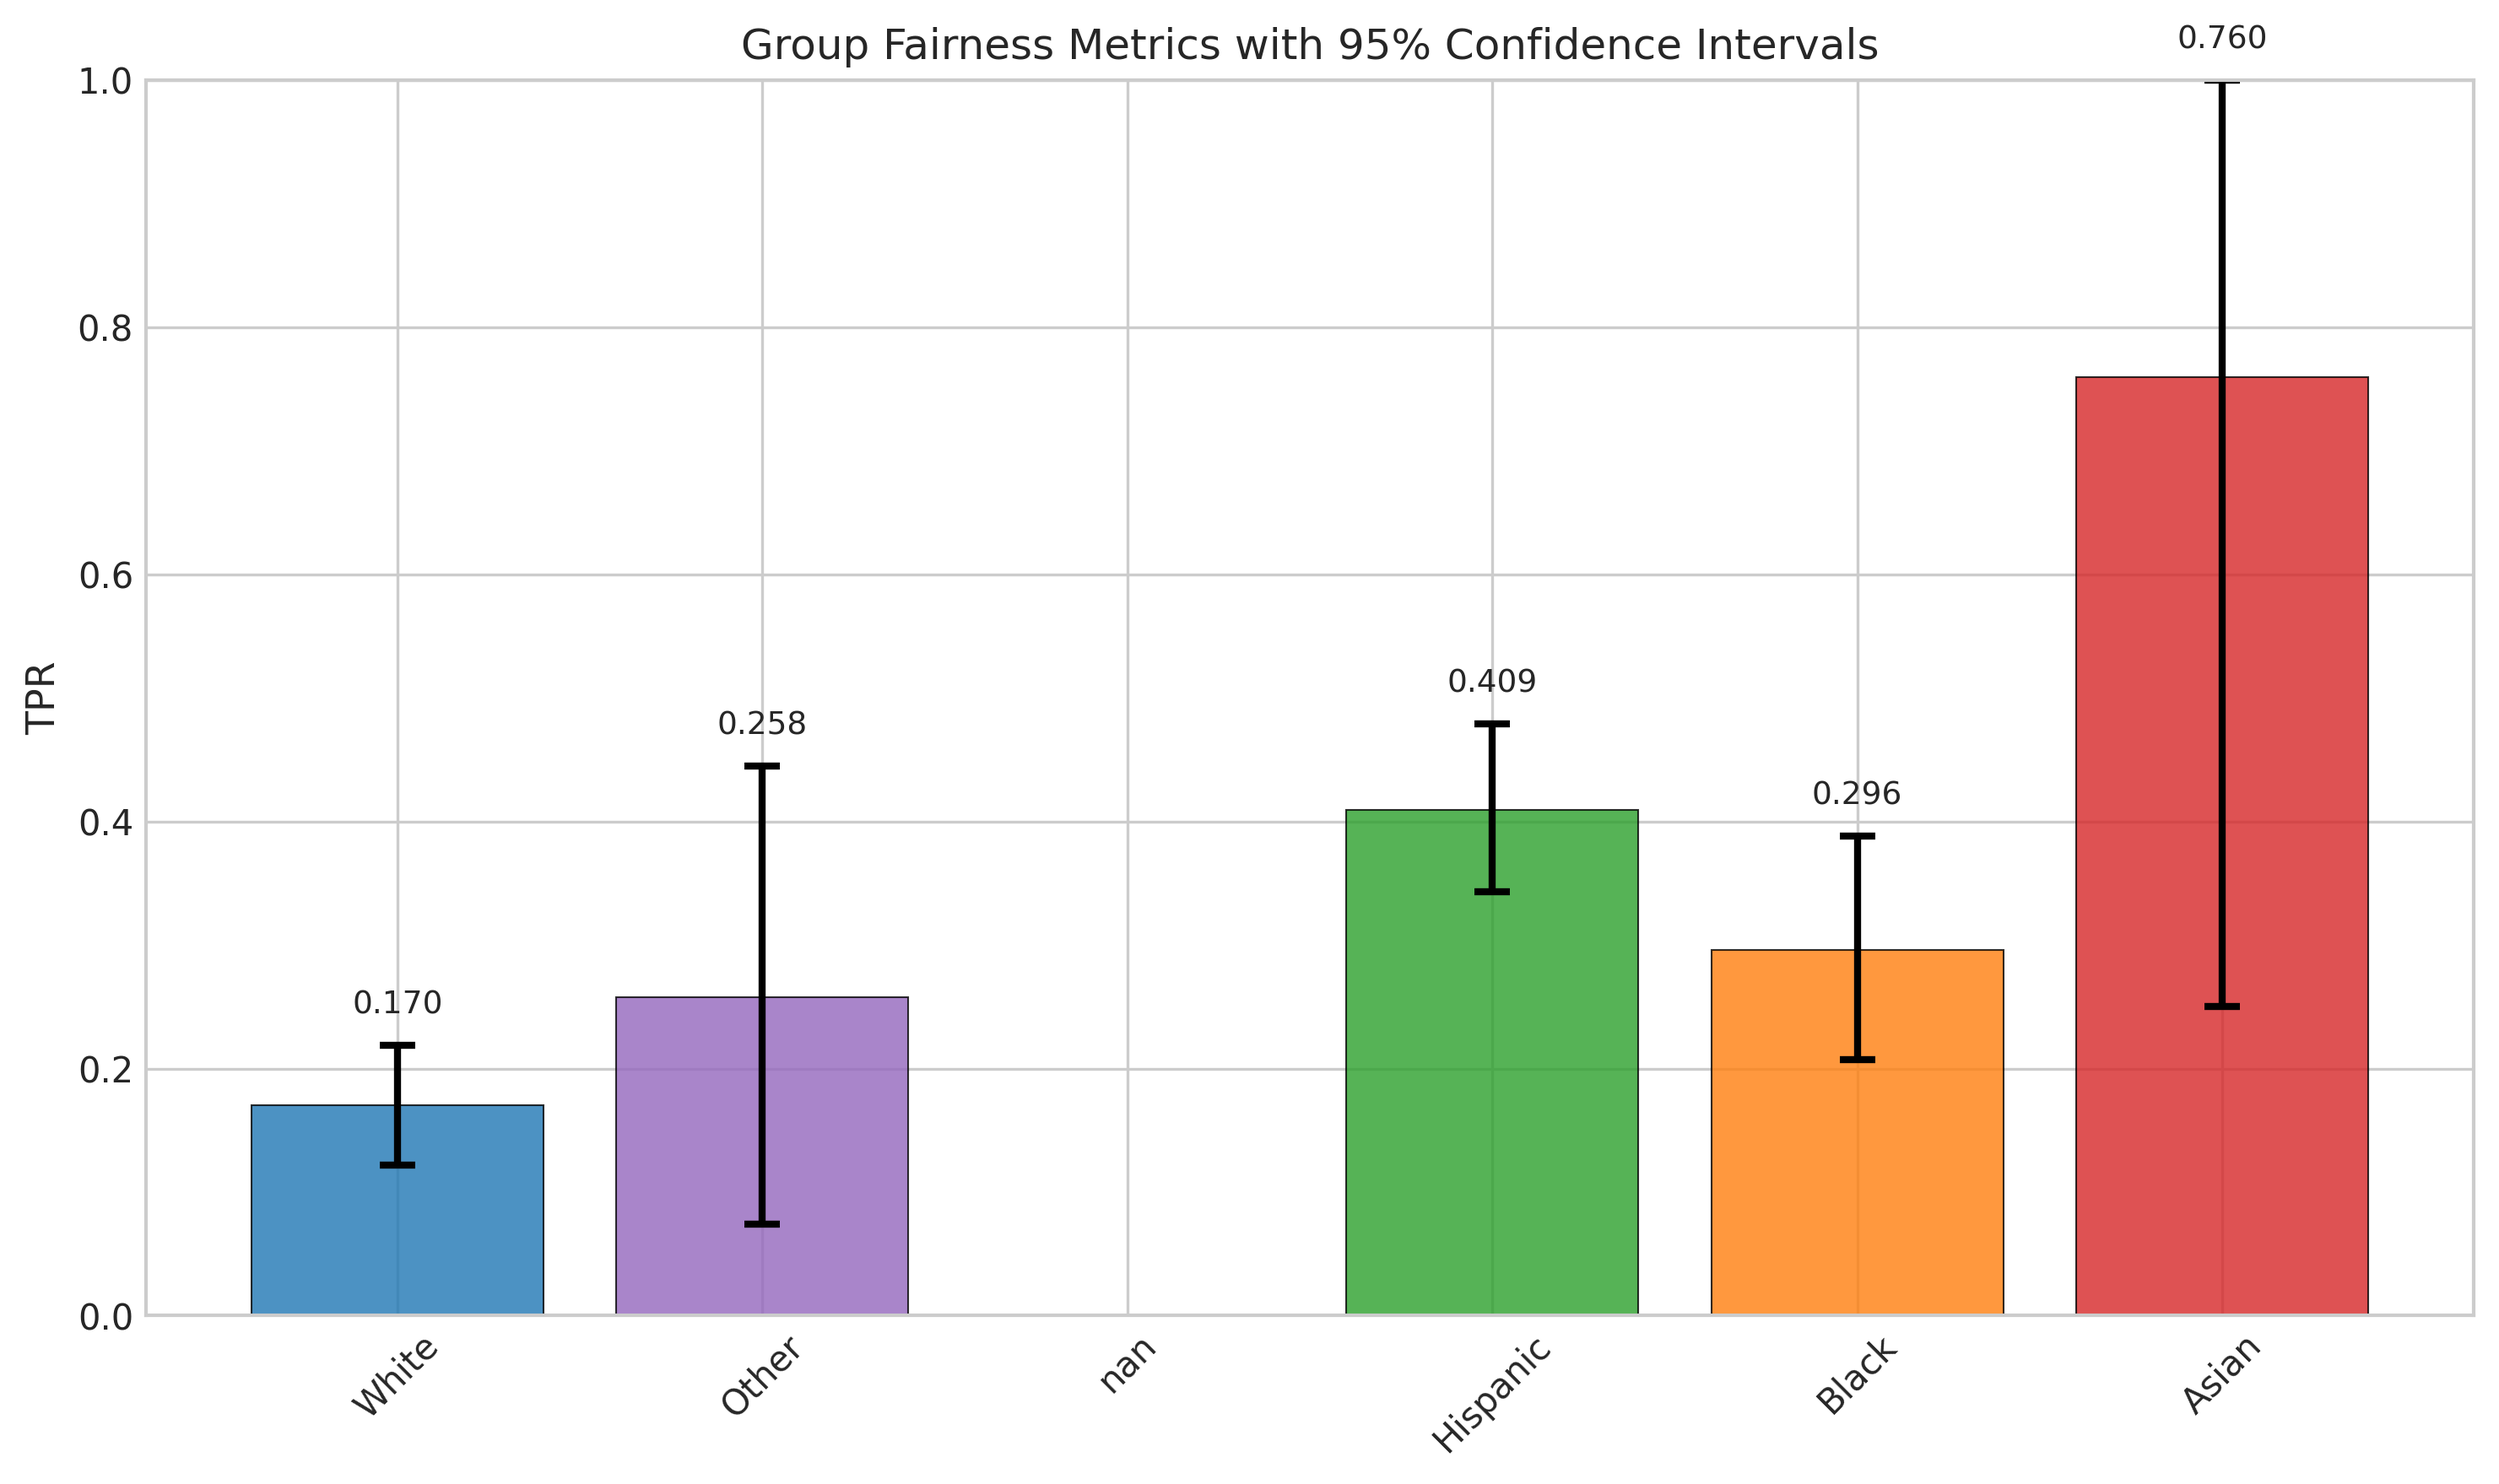
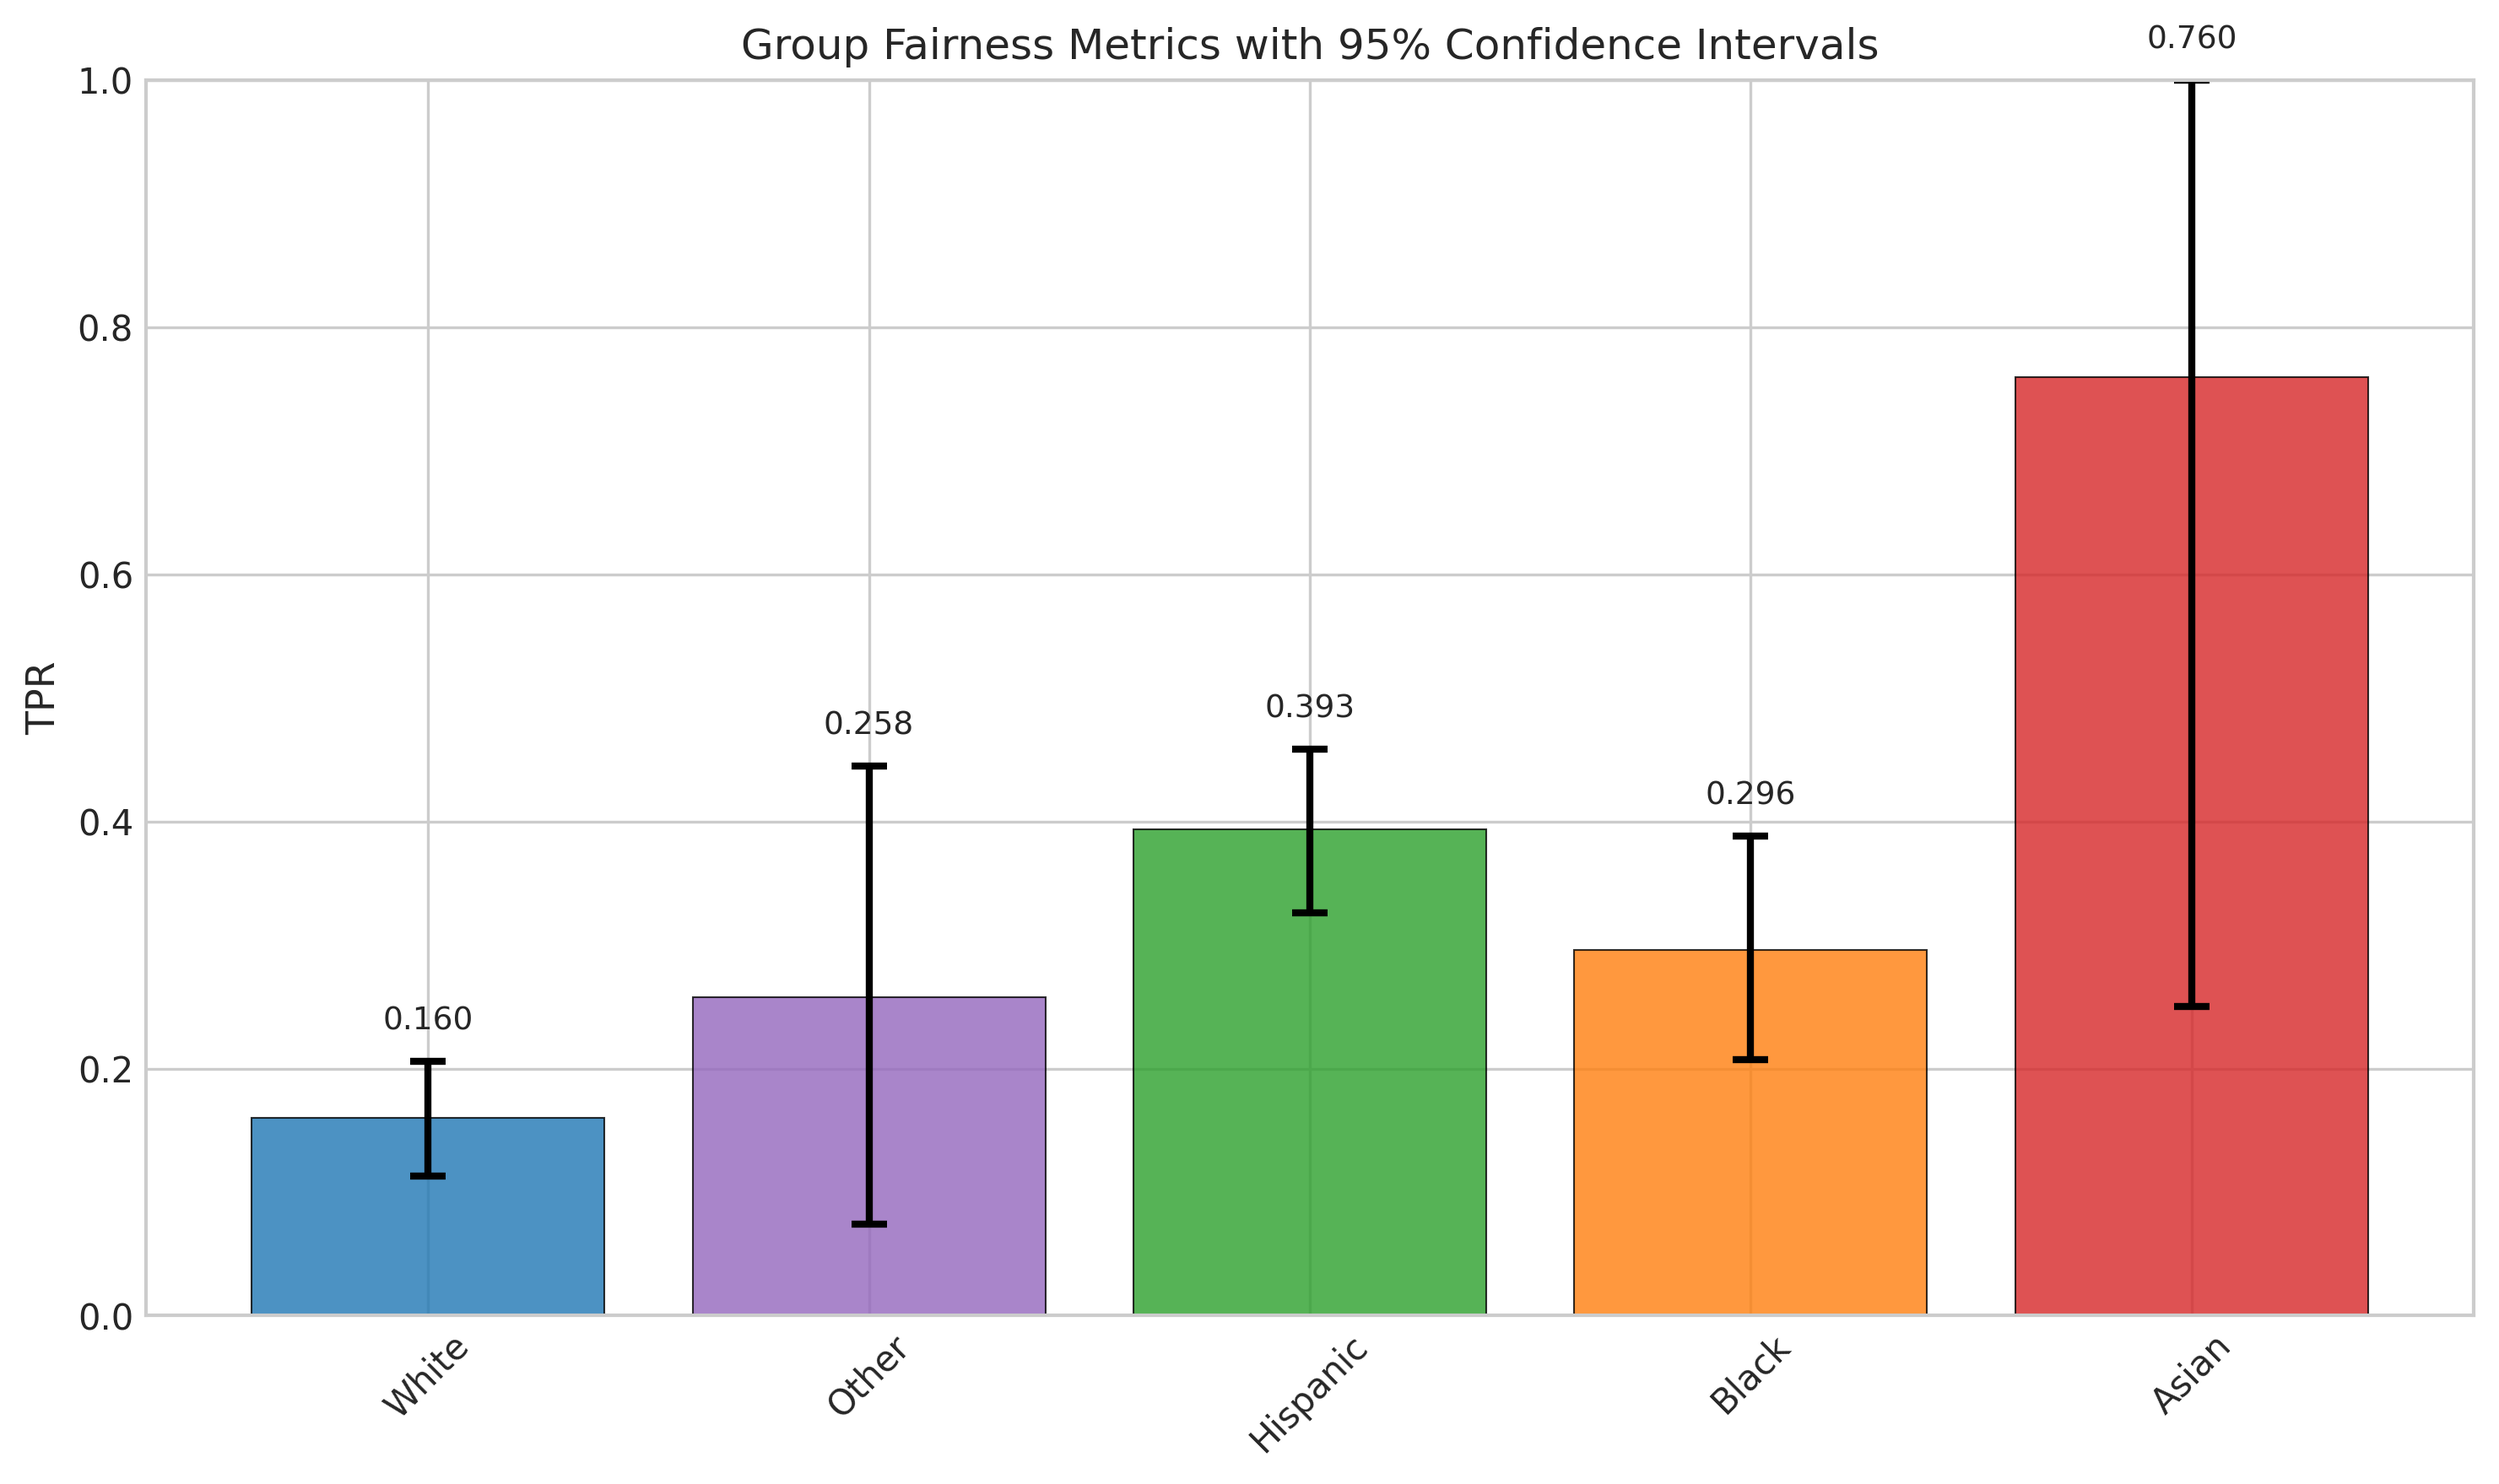
Fix compatibility issues and run full 2025 pipeline
- Fix TabPFN v6 API: N_ensemble_configurations -> n_estimators
- Fix CatBoost sklearn 1.7+ tags: add __sklearn_tags__() override
- Fix XGBoost: remove deprecated use_label_encoder param
- Fix SHAP 0.49: handle removed check_additivity param
- Fix intersectional fairness: use numeric values instead of strings
- Fix bootstrap CI: filter NaN groups from analysis
- Fix parse_ascii_data.py: correct return type annotation and
  operator precedence bug

diff --git a/src/models.py b/src/models.py
@@ -51,7 +51,9 @@ try:
     from sklearn.base import BaseEstimator, ClassifierMixin
 
     class CatBoostClassifierWrapper(BaseEstimator, ClassifierMixin):
-        """Wrapper to make CatBoost compatible with sklearn >= 1.8 GridSearchCV."""
+        """Wrapper to make CatBoost compatible with sklearn >= 1.7 GridSearchCV."""
+
+        _estimator_type = "classifier"
 
         def __init__(self, random_state=42, verbose=False,
                      allow_writing_files=False, iterations=100,
@@ -63,6 +65,13 @@ try:
             self.depth = depth
             self.learning_rate = learning_rate
             self._extra_kwargs = kwargs
+
+        def __sklearn_tags__(self):
+            from sklearn.utils._tags import ClassifierTags
+            tags = super().__sklearn_tags__()
+            tags.estimator_type = "classifier"
+            tags.classifier_tags = ClassifierTags()
+            return tags
 
         def _get_cb(self):
             return _CatBoostClassifier(
@@ -173,7 +182,6 @@ class ModelTrainer:
             configs["xgboost"] = {
                 "model": xgb.XGBClassifier(
                     random_state=self.random_state,
-                    use_label_encoder=False,
                     eval_metric="logloss"
                 ),
                 "params": {
@@ -235,7 +243,8 @@ class ModelTrainer:
             configs["tabpfn"] = {
                 "model": TabPFNClassifier(
                     device="cpu",
-                    N_ensemble_configurations=32
+                    n_estimators=32,
+                    random_state=self.random_state
                 ),
                 "params": {}  # TabPFN requires no tuning
             }

diff --git a/src/fairness.py b/src/fairness.py
@@ -767,10 +767,10 @@ class IntersectionalFairnessAnalyzer:
                 "Subgroup": group,
                 "N": m.n,
                 "Prevalence": f"{m.prevalence:.1%}",
-                "TPR": f"{m.tpr:.3f}",
-                "FPR": f"{m.fpr:.3f}",
-                "PPV": f"{m.ppv:.3f}",
-                "Accuracy": f"{m.accuracy:.3f}"
+                "TPR": round(m.tpr, 3),
+                "FPR": round(m.fpr, 3),
+                "PPV": round(m.ppv, 3),
+                "Accuracy": round(m.accuracy, 3)
             })
 
         return pd.DataFrame(rows).sort_values("TPR")
@@ -820,7 +820,7 @@ class FairnessConfidenceIntervals:
             DataFrame with metrics and confidence intervals
         """
         y_pred = (self.y_prob >= threshold).astype(int)
-        unique_groups = self.groups.unique()
+        unique_groups = [g for g in self.groups.unique() if pd.notna(g)]
 
         results = []
 

diff --git a/scripts/parse_ascii_data.py b/scripts/parse_ascii_data.py
@@ -24,7 +24,7 @@ logger = logging.getLogger(__name__)
 LINES_PER_RECORD = 27
 
 
-def parse_dct_file(dct_path: str) -> Tuple[Dict[str, Tuple[int, int, str, int]], int]:
+def parse_dct_file(dct_path: str) -> Tuple[Dict[str, Tuple[int, int, str, int]], Dict[int, int]]:
     """
     Parse Stata dictionary file to extract column specifications.
 
@@ -128,7 +128,7 @@ def read_multiline_fixed_width(
                     start, width, pytype, _ = dct_specs[col]
                     value = record[start:start + width].strip()
 
-                    if value in ['', '.'] or value.startswith('-1') and len(value) < 3:
+                    if value in ['', '.'] or (value.startswith('-1') and len(value) < 3):
                         row[col] = np.nan
                     elif pytype == 'float':
                         try:

diff --git a/src/explainability.py b/src/explainability.py
@@ -124,7 +124,11 @@ class SHAPExplainer:
         """
         logger.info(f"Computing SHAP values for {len(X)} samples...")
 
-        shap_values = self.explainer.shap_values(X, check_additivity=check_additivity)
+        try:
+            shap_values = self.explainer.shap_values(X, check_additivity=check_additivity)
+        except TypeError:
+            # Newer SHAP versions removed check_additivity for some explainers
+            shap_values = self.explainer.shap_values(X)
 
         # Handle binary classification (take positive class)
         if isinstance(shap_values, list) and len(shap_values) == 2:
